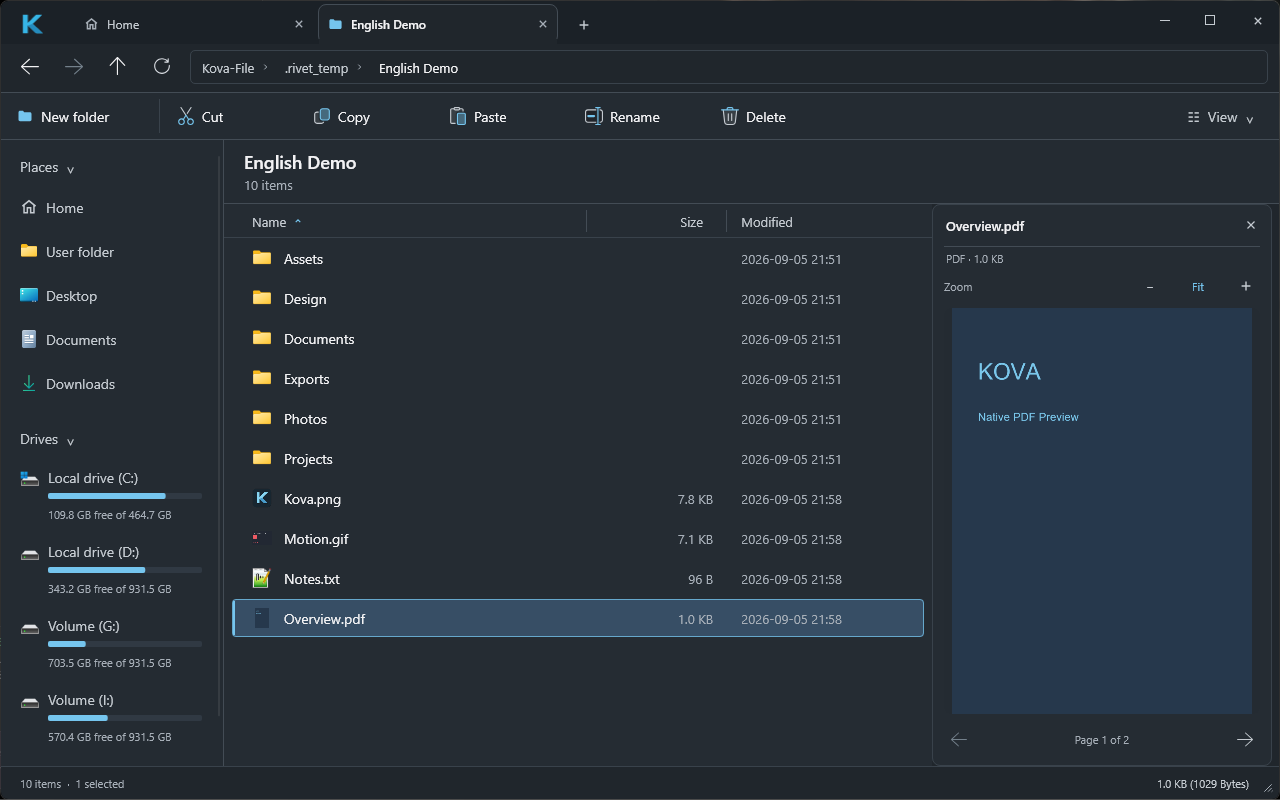
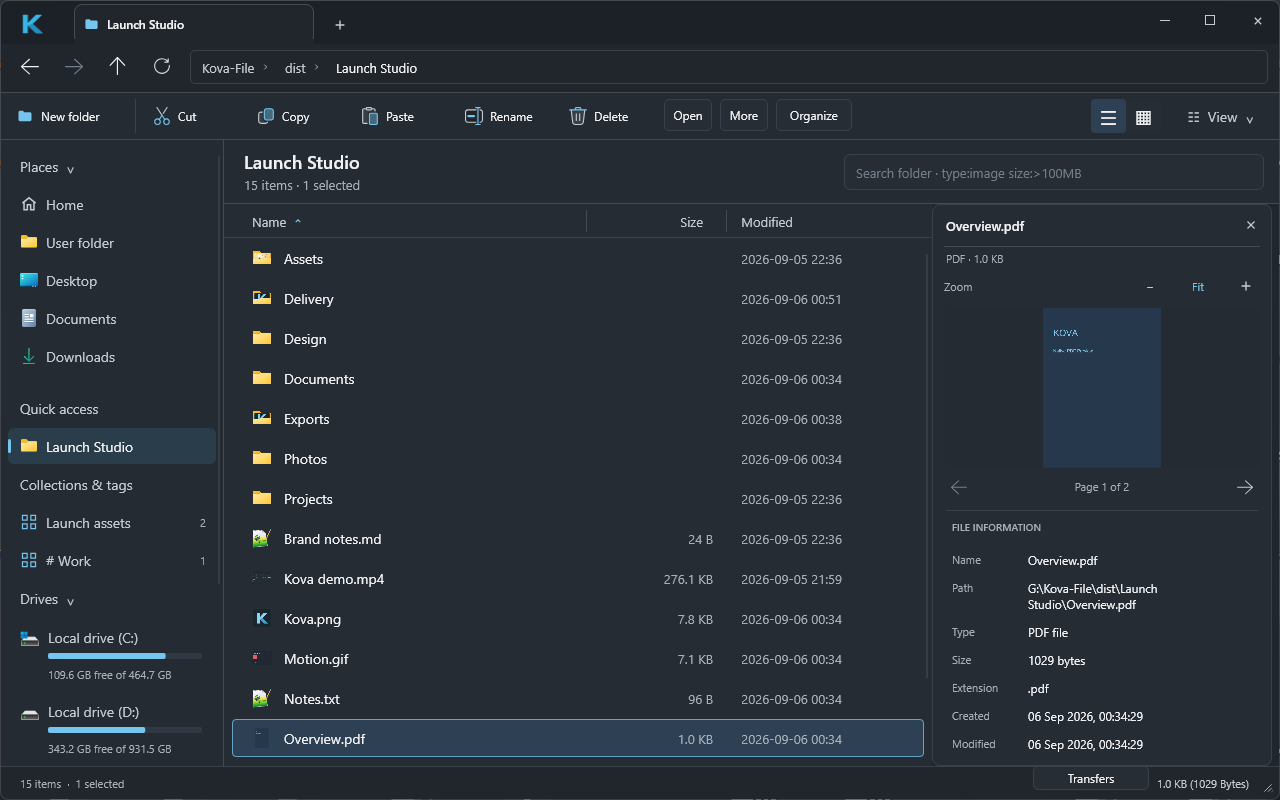
docs: document next-generation workflows and desktop verification

diff --git a/docs/NEXTGEN.md b/docs/NEXTGEN.md
@@ -1,0 +1,104 @@
+# Working with Kova
+
+These features describe the current source, after v0.1.0. Kova remains a native
+Rust/Slint Windows application; no Spacedrive or File Browser code was imported.
+
+## Views and inspector
+
+Use the Details/Gallery buttons or **View**. **View > Thumbnail size** offers
+Small, Medium and Large. Both views share the same directory snapshot and
+selection. Switching views maps the first visible row to its corresponding
+gallery row; exact pixel offsets can differ after resizing or changing tile size.
+Ctrl/Shift selection, arrow keys, Home/End and rectangle selection work in both.
+Sorting remains available in the gallery header. Ctrl+T creates a Home tab,
+Ctrl+W closes the current tab, and Ctrl+Enter opens a selected folder in a new tab.
+
+**Space** toggles the inspector. Images, bounded text and PDF pages use the
+existing decoders; GIF, WebP and APNG retain playback controls. Other files use
+Windows thumbnail providers or a large Shell icon. Created/modified dates, path,
+extension and size appear below. Dimensions and duration depend on Windows
+property handlers. Video playback is not included; video thumbnails are supported
+when Windows has a provider. No claim is made that all codecs are available.
+
+Thumbnail work runs off the UI thread, only for the visible range plus a margin.
+The in-memory thumbnail cache is bounded to 256 entries. Navigation invalidates
+stale work. Automatic previews avoid network locations and observed cloud
+placeholders/reparse points. A slow third-party Shell handler cannot be forcibly
+interrupted; stale results are discarded when it returns.
+
+## Search
+
+**Ctrl+F** focuses the current-folder filter. Typing filters the cached snapshot
+without enumerating the directory again. Names are case-insensitive. Examples:
+
+| Query | Meaning |
+| --- | --- |
+| `holiday` | Name contains holiday |
+| `type:image` | Images |
+| `type:video` / `type:audio` | Video / audio extensions |
+| `type:document` / `type:archive` / `type:folder` | File groups / folders |
+| `ext:png` | PNG extension |
+| `size:>100MB` | Larger than 100 MiB |
+| `size:<1GB modified:this-week` | Both conditions |
+| `modified:today` / `modified:this-month` | Local calendar boundaries |
+| `modified:2026-09-01` | Modified on or after that date |
+
+Filters combine with name terms. Multiple types/extensions are alternatives;
+multiple size bounds must all match. Folder sizes are unknown unless calculated.
+Global search is not implemented. The toolkit-independent query matcher can be
+reused by a future indexed provider without coupling the UI to MFT/USN traversal.
+
+## Transfers and conflicts
+
+Copy, cut/paste and deletion use Windows **IFileOperation**, on a dedicated STA
+worker. **Transfers** in the status bar opens the queue and recent history.
+It shows selected sources, destination, current item, progress, completed bytes
+and files, remaining items in the current native stage, and errors. Windows progress units are not
+assumed to be bytes; byte totals advance when file completion is reported.
+Small operations do not open the panel automatically.
+
+**Cancel** requests cancellation through the native progress sink. Completed work
+is retained; cancellation is not rollback. Kova keeps its window open while an
+operation is active, so it cannot terminate its own transfer worker mid-operation.
+Let transfers finish or cancel them before closing.
+
+File-to-file collisions show Existing and Incoming paths, sizes and dates before
+any transfer starts. Choose **Replace**, **Skip**, or **Keep Both**, optionally
+for all file conflicts in that operation. Keep Both selects an unused name such
+as `photo (1).jpg`. Replace confirmation applies only to those colliding files.
+Folder merges and exceptional Shell objects retain Windows conflict dialogs.
+Races discovered by Windows after preparation use its native handling.
+Deletion goes through the Recycle Bin where supported; Windows retains permanent
+deletion warnings on volumes that cannot recycle. Operations invoked directly by
+third-party Shell menu extensions retain their own UI and are not queue entries.
+
+## Storage
+
+**Home** compares local fixed/removable/RAM drives, file systems and capacity.
+Refresh it with F5 after connecting a device. Network/CD drives are not listed;
+explicit paths can still be navigated. Unavailable capacity is labeled accordingly.
+
+Select a folder, or open one, then choose **View > Analyze storage**. Drive rows
+also offer Analyze storage. Analysis runs in the background and reports logical
+file bytes, the 30 largest immediate subfolders and 30 largest files across the
+tree. It skips observed reparse/offline entries, records skipped/inaccessible
+items, bounds the pending-directory queue and supports cancellation. These are
+logical sizes, not physical allocation; hard links may be counted more than once.
+
+## Tags, collections and Quick access
+
+Select files and open **Organize**. Enter a name to create/add a collection or
+apply a tag. Existing groups provide **Add**, **Open** and **Remove**. Groups
+contain references only, including files from different drives. Removing a group
+never deletes its files. In a group, **Remove selected references** removes only
+membership. New Folder and Paste are disabled in these virtual locations.
+
+Kova's confirmed renames/moves update references. Files moved externally remain
+as unavailable references until removed or added from their new location; no
+background global identity index is implied. Missing entries stay visible as
+**Unavailable**. Operations on them report errors rather than acting elsewhere.
+
+Pin the current/selected folder from Organize or View. Right-click a pin to remove
+it or move it up/down. Pins, tags and collections are stored atomically in
+`%LOCALAPPDATA%\Kova\library.json`. Corrupt/unreadable storage is left intact and
+organization becomes read-only with an error. No account or network service is used.

diff --git a/docs/NEXTGEN_VERIFICATION.md b/docs/NEXTGEN_VERIFICATION.md
@@ -1,0 +1,100 @@
+# Next-generation verification
+
+Windows 11 x64, September 6, 2026. Tests used isolated app preferences and local
+demonstration files; normal personal folders were not modified. The current
+feature contract and limitations are in [NEXTGEN.md](NEXTGEN.md).
+
+## Automated checks
+
+- `cargo fmt --all -- --check`: pass.
+- `cargo check --workspace --all-targets`: pass.
+- `cargo test --workspace`: 72 passed, 4 environment/performance tests ignored.
+- `cargo clippy --workspace --all-targets --all-features -- -D warnings`: pass.
+- Release workspace build: pass.
+- The normally ignored native transfer test was run explicitly on the desktop:
+  two-file Keep Both, Skip, Replace and Cancel with apply-to-all; source and
+  destination contents checked before and after; native move and relocation
+  notifications checked. Pass.
+
+Regression coverage includes 10,000-entry snapshot filtering and selection,
+gallery selection rectangles, virtual-folder destination guards, unavailable
+references, atomic library replacement, exact-file and folder relocation, stale
+snapshots, preview cancellation, malformed clipboard data and bounded storage scans.
+
+## Real desktop flow
+
+The actual Slint window was driven through mouse and keyboard input, with
+filesystem checks in addition to screenshots:
+
+- Home, folder navigation, Details/Gallery switching with selection retained,
+  all three gallery sizes, first/last item navigation, responsive layout at 760 x 500 and 1280 x 800.
+- Native bottom-right drag resize changed the window from 1280 x 800 to
+  1400 x 860 through pointer input.
+- Current-directory filters by name, extension, size and local date; 1,000 and
+  10,000 synthetic files; End reached the last gallery tile and combined filters
+  reduced the cached entries without a new directory enumeration.
+- Image, text and PDF inspector; GIF playback verified by nine screen samples
+  containing three distinct preview frames. MP4 thumbnail and Windows metadata
+  reported 1280 x 800 and duration 0:00:28 for the 28-second demonstration clip.
+- Multi-file copy/paste; file conflict with different source/destination contents;
+  Keep Both; inline rename; deletion verified in the actual Recycle Bin.
+- Copy and Keep Both output SHA-256 hashes matched their sources. A live copy
+  of a 10,000-file folder was cancelled after approximately 1,985 completed files;
+  the UI remained responsive and completed files were retained.
+- Closing during a waiting conflict kept the process/window alive. Resolving
+  or cancelling allowed normal shutdown.
+- Collections and tags created through Organize, persisted across restart,
+  and displayed references without moving files. Kova rename updated references;
+  an externally missing file remained visible and recovered after restoration.
+- Arbitrary folder pins, reordering and removal checked against persisted paths;
+  drive context navigation checked on G: rather than the first drive; native file context menus with installed extensions,
+  including 7-Zip. The Open/More controls use the current selection.
+- An EXE launched by double-click verified its working directory by reading an
+  adjacent relative asset and writing a local result file.
+- Storage analysis of the demo tree, plus a self-referencing NTFS junction:
+  the safety fixture returned 13 bytes, 1 file and 1 skipped link, without looping.
+- Navigation to an unavailable drive produced a recoverable folder error.
+
+## Large-folder timing
+
+A final local release run logged 13.57 ms to enumerate 1,000 entries and 66.92 ms
+for 10,000 entries. These are single warm local-disk enumeration measurements,
+not end-to-end rendering latency or a cross-machine benchmark. The same real
+window remained usable for End navigation, selection and snapshot filtering.
+
+## Screenshots
+
+- [Home and drive capacity](images/home-overview.png)
+- [Gallery and inspector](images/nextgen-gallery.png)
+- [Details and PDF preview](images/file-preview.png)
+- [File conflict comparison](images/nextgen-conflict.png)
+- [Storage analysis](images/nextgen-storage.png)
+- [Native Shell menu with extensions](images/nextgen-native.png)
+
+## Issues found and corrected during verification
+
+- Virtualized gallery End scrolling could stop short of the last tile; defer
+  visibility adjustment until the layout settles.
+- Search text needed a two-way binding to clear correctly on navigation.
+- Exact file relocation appended a directory separator; preserve the exact new
+  path when the relative suffix is empty, with an OS-string regression test.
+- Closing overlay panels could leave keyboard focus behind; return it to the list.
+- Ctrl+Shift+N delivered an uppercase N; accept both cases.
+- More needed the actual primary row rather than the activation sentinel.
+- Nested sidebar/drive input areas needed explicit secondary-click forwarding
+  to open their context menus while retaining mouse Back/Forward. Popup actions
+  capture the invocation target explicitly instead of a repeated menu binding.
+- Ctrl+T now consistently creates a new tab; Ctrl+Enter opens the selected folder
+  in a new tab and Ctrl+W closes the current tab.
+
+## Limits of the evidence
+
+The large-folder checks are synthetic local-disk checks, not a claim about every
+NAS, USB controller or third-party Shell extension. No physical drive was removed
+during an active write. Preview handler support varies by machine. Kova does not
+implement global indexing, external-move identity tracking, video playback or
+application-level rollback. Existing native Windows conflict and recovery
+semantics remain authoritative.
+
+The README and accompanying screenshots describe this source update; the older
+v0.1.0 installer is not represented as containing these features.

diff --git a/README.md b/README.md
@@ -14,12 +14,13 @@
 
 [![Watch the Kova product teaser](docs/images/product-teaser.png)](docs/media/Kova-Product-Teaser.mp4?raw=true)
 
-Kova combines tabbed browsing, native Windows context menus and file previews in
-a compact desktop interface. Built with **Rust, Slint and Win32/Shell APIs** for
+Kova combines tabbed browsing, a thumbnail gallery, native Windows context menus
+and an inspector in a compact desktop interface. Built with **Rust, Slint and Win32/Shell APIs** for
 Windows 10/11 x64. No Electron or WebView.
 
 > **Early preview:** Kova is under active development. The current source uses
-> English interface labels; the v0.1.0 download still contains the earlier mixed-language UI.
+> English interface labels and the next-generation features below. The v0.1.0
+> download predates this update; build the current source to try these features.
 > See the
 > [verification notes](docs/APPROVED_DESIGN.md) for tested behavior and limits.
 
@@ -48,10 +49,11 @@ replace Win+E, Windows file pickers or every explicit Explorer invocation.
 | Feature | Included |
 | --- | --- |
 | **Browse** | Tabs with independent history, breadcrumbs, familiar shortcuts and mouse Back/Forward |
-| **Manage files** | Copy, cut, paste and Recycle Bin deletion through native Windows operations; inline New Folder and Rename |
-| **See more** | Image, text and PDF previews; animated GIF, WebP and APNG playback; file thumbnails |
-| **Stay organized** | Sortable, resizable columns; Ctrl/Shift selection and mouse selection rectangle |
-| **Check storage** | Home with drive capacity, free space and usage bars; optional background folder-size calculation |
+| **Manage files** | Native copy, move and Recycle Bin deletion; transfer history, progress and cancellation; explicit Replace / Skip / Keep Both conflicts |
+| **See more** | Details and three gallery sizes; image, text and PDF inspector; animated GIF, WebP and APNG; media metadata and Shell thumbnails |
+| **Stay organized** | Local tags and collections, pinned folders with reordering; sortable columns and rectangular multi-selection |
+| **Find files** | Instant current-folder filtering by name, extension, type, size and modification date |
+| **Check storage** | Drive type, file system and capacity; cancellable background analysis with largest folders/files and proportional bars |
 | **Adjust the view** | Hidden/system files, file extensions, row density, alternating rows and a resizable preview pane |
 | **Use Windows tools** | Native Shell menus with installed extensions, associated applications and Explorer-compatible clipboard |
 
@@ -63,6 +65,13 @@ Home opens at startup. Compare capacity and free space, then double-click a driv
 to browse it. Explicit folder launches open the requested folder directly.
 
 ![Kova Home showing drives, free space and usage bars](docs/images/home-overview.png)
+
+### Browse visually
+
+Switch between Details and Gallery without changing the folder or selection.
+Choose small, medium or large tiles, then inspect a file alongside the gallery.
+
+![Kova Gallery with the file inspector](docs/images/nextgen-gallery.png)
 
 ### Preview without leaving the folder
 
@@ -81,8 +90,15 @@ changes or the pane closes.
 
 </details>
 
-These are real application captures using demonstration files, recorded on
-Windows 11 on September 5, 2026.
+The screenshots are real application captures using demonstration files.
+See [the current feature guide](docs/NEXTGEN.md) for controls and limitations.
+
+### Stay in control of transfers
+
+Review source and destination, progress and completed work in Transfers. File
+collisions wait for your choice; folder merges retain native Windows handling.
+
+![Kova file conflict comparison](docs/images/nextgen-conflict.png)
 
 ## Familiar shortcuts
 
@@ -95,6 +111,7 @@ Windows 11 on September 5, 2026.
 | Copy / cut / paste | `Ctrl+C` / `Ctrl+X` / `Ctrl+V` |
 | Select all / delete | `Ctrl+A` / `Delete` |
 | Toggle preview | `Space` |
+| Filter the current folder | `Ctrl+F` |
 
 ## Build from source
 
@@ -114,6 +131,7 @@ See [Contributing](CONTRIBUTING.md) for quality checks and
 
 ## Project documentation
 
+- [Gallery, search, transfers and local organization](docs/NEXTGEN.md)
 - [User guide: views, previews and storage](docs/VIEW_AND_PREVIEW.md)
 - [Windows integration and restoration](docs/INTERACTION_INTEGRATION.md)
 - [Current design and runtime verification](docs/APPROVED_DESIGN.md)

diff --git a/docs/ARCHITECTURE.md b/docs/ARCHITECTURE.md
@@ -120,3 +120,26 @@ start a dedicated VS developer shell.
 - Explicit permanent-delete UI
 - Preview pane, split view, Git integration, cloud paths
 - Plugins, auto updater, telemetry
+
+
+## Snapshot views and local organization
+
+Details and Gallery consume one indexed Slint model. View changes do not enumerate
+again. SearchQuery is a core-only parser/matcher; the controller filters cached
+entries and remaps selection by path. Gallery rows are virtualized, and thumbnail
+requests cover the visible range with a bounded cache and stale-result generation.
+The inspector and storage scanner each own background workers. Storage reports
+periodic partial results and skips observed reparse/offline entries.
+
+Library stores pins and named reference groups, serialized by a dedicated worker
+to a temporary file and atomically replaced. Collections/tags are virtual locations,
+with no filesystem destination; the enumeration worker resolves their references.
+Confirmed Kova moves/renames relocate matching references. External moves require
+repair by the user; unavailable references stay visible.
+
+TransferQueue is shared plain Rust state. Only the Shell STA worker holds COM
+interfaces. File-to-file conflicts are prepared on that worker and wait on a
+bounded decision channel. IFileOperation still performs the operations. Its
+progress sink reports progress, completed file bytes and cancellation. An Advise
+guard always calls Unadvise before the operation is released. No COM interface is
+made Send or carried into the UI thread. Folder conflicts retain native handling.

diff --git a/docs/VIEW_AND_PREVIEW.md b/docs/VIEW_AND_PREVIEW.md
@@ -1,5 +1,8 @@
 # View options and previews
 
+For Gallery, search filters, inspector metadata, transfers, tags, collections and
+storage analysis, see [the current feature guide](NEXTGEN.md).
+
 The **View** menu at the right of the command bar contains preview visibility,
 storage overview, folder-size calculation, hidden files, system files, file extensions, compact rows, alternating row
 colors and the loading-logo animation. The top-left menu now uses only the
@@ -21,7 +24,7 @@ PNG, JPEG, GIF, BMP, TIFF and ICO use Windows image decoding when supported;
 WebP has a bundled Rust decoder and needs no Windows codec installation.
 PDFs use their first page. Other file types, including formats supplied by installed
 codecs/extensions, are requested through `IShellItemImageFactory` with
-`SIIGBF_THUMBNAILONLY`. Missing or failed providers leave the normal type icon.
+`SIIGBF_THUMBNAILONLY`. Missing providers fall back to a larger Shell icon; failed providers leave the normal type icon.
 Support for a video or document format depends on the installed Windows provider;
 this is not a claim that every file has a visual preview.
 

diff --git a/docs/PRODUCT.md b/docs/PRODUCT.md
@@ -16,8 +16,14 @@ browsing, familiar interactions and visible file-operation outcomes.
 - View preferences and optional bounded background folder-size calculations.
 - Reversible, per-user folder-opening integration.
 - Windows setup and portable ZIP packaging.
+- Virtualized Details/Gallery views with small, medium and large thumbnails.
+- Snapshot search by name, extension, type, size and date.
+- Inspector metadata, transfer center, explicit file conflicts and storage analysis.
+- Persistent local tags, collections and reorderable pinned folders.
 
-The primary interface labels are currently German. GitHub documentation is English.
+See [the next-generation feature guide](NEXTGEN.md) for exact behavior.
+
+The primary interface labels and GitHub documentation are English. Native Shell menus follow the Windows language.
 The [README](../README.md) introduces the current product; the
 [view guide](VIEW_AND_PREVIEW.md) records preview limits and runtime evidence.
 

diff --git a/docs/README.md b/docs/README.md
@@ -4,6 +4,9 @@ Start with the [project overview and download guide](../README.md).
 
 ## Using Kova
 
+- [Gallery, search, transfers, tags and collections](NEXTGEN.md)
+- [Next-generation verification](NEXTGEN_VERIFICATION.md)
+
 - [Views, previews and storage](VIEW_AND_PREVIEW.md)
 - [Demo recording and build version](DEMO.md)
 - [Folder integration and mouse selection](INTERACTION_INTEGRATION.md)
